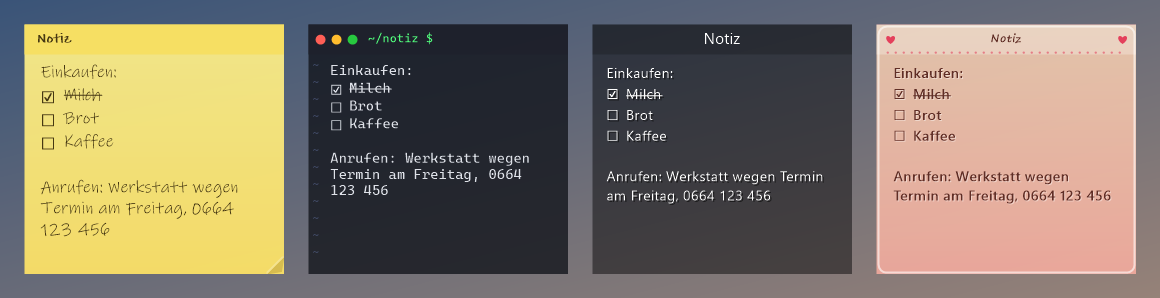
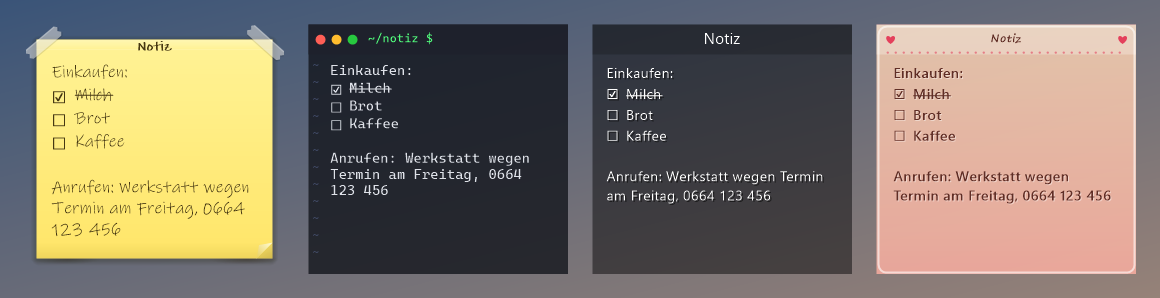
Redesign Post-it as a taped note and fix note editor colors
- Post-it draws on a clear window (no frosted glass, no DWM shadow):
  paper with soft shadow, lifted corners, two strips of tape, curled corner
- Themes can opt out of glass (Glass/WindowShadow); clear background uses
  the transparent-gradient accent with flag 2, without it Windows tints it
- Note editor is a RichTextBox: a TextBox ignores colors in dark mode
  (white on white); paste is always plain text

Changed region(s): [[0.0, 0.0604, 0.2483, 0.9362]]

diff --git a/NoFences/Themes/PostItTheme.cs b/NoFences/Themes/PostItTheme.cs
@@ -3,29 +3,40 @@ using NoFences.Model;
 
 namespace NoFences.Themes
 {
-    /// <summary>Yellow sticky note: paper gradient, adhesive strip, dog-ear corner, handwriting.</summary>
+    /// <summary>
+    /// A sticky note taped onto the desktop: no glass, the window is clear around a sheet of paper
+    /// with its own soft shadow, slightly lifted bottom corners, two strips of translucent tape and
+    /// handwriting.
+    /// </summary>
     public sealed class PostItTheme : FenceTheme
     {
-        private static readonly Color Top = Color.FromArgb(255, 241, 140);
-        private static readonly Color Bottom = Color.FromArgb(255, 228, 102);
-        private static readonly Color Strip = Color.FromArgb(246, 222, 96);
+        private static readonly Color Top = Color.FromArgb(255, 243, 150);
+        private static readonly Color Bottom = Color.FromArgb(255, 229, 104);
         private static readonly Color Ink = Color.FromArgb(70, 56, 18);
+        private static readonly Color TapeColor = Color.FromArgb(120, 255, 253, 246);
 
         private static readonly string[] Handwriting = { "Ink Free", "Segoe Print", "Comic Sans MS" };
+
+        /// <summary>Clear margin around the paper (logical px) for tape and shadow.</summary>
+        private const float Margin = 12;
+        private const float TopMargin = 15;
+        private const float BottomMargin = 16;
 
         public override string Id => "postit";
 
         public override string DisplayName => "Post-it";
 
+        public override bool Glass => false;
+
+        public override bool WindowShadow => false;
+
         public override int CornerPreference => 1;
 
-        public override int MinAlpha => 235;
-
-        public override int ContentInset => 2;
+        public override int ContentInset => 13;
 
         public override Color HintColor => Color.FromArgb(140, Ink);
 
-        public override (Color Back, Color Fore) EditorColors => (Color.FromArgb(255, 247, 178), Ink);
+        public override (Color Back, Color Fore) EditorColors => (Color.FromArgb(255, 240, 138), Ink);
 
         public override Font CreateTitleFont(int titleHeightPx) =>
             CreateFont(Handwriting, Math.Max(6, titleHeightPx * 0.46f), FontStyle.Bold, GraphicsUnit.Pixel);
@@ -34,30 +45,113 @@ namespace NoFences.Themes
 
         public override Font CreateNoteFont(float s) => CreateFont(Handwriting, 17f * s, FontStyle.Regular, GraphicsUnit.Pixel);
 
+        private static RectangleF Paper(Rectangle bounds, float s)
+        {
+            var m = Margin * s;
+            var top = TopMargin * s;
+            return new RectangleF(bounds.X + m, bounds.Y + top, Math.Max(1, bounds.Width - 2 * m), Math.Max(1, bounds.Height - top - BottomMargin * s));
+        }
+
         public override void DrawFrame(Graphics g, Rectangle bounds, int titleHeight, FenceInfo info, float s)
         {
-            var alpha = Alpha(info);
-            using (var paper = new LinearGradientBrush(bounds, Color.FromArgb(alpha, Top), Color.FromArgb(alpha, Bottom), LinearGradientMode.Vertical))
-                g.FillRectangle(paper, bounds);
+            var paper = Paper(bounds, s);
 
-            // Adhesive strip at the top
-            using (var strip = new SolidBrush(Color.FromArgb(alpha, Strip)))
-                g.FillRectangle(strip, bounds.X, bounds.Y, bounds.Width, titleHeight);
+            DrawShadow(g, paper, s);
 
-            // Dog-ear in the bottom right corner
-            var ear = 18 * s;
-            var r = bounds.Right;
-            var b = bounds.Bottom;
-            using (var shadow = new SolidBrush(Color.FromArgb(60, 120, 90, 0)))
-                g.FillPolygon(shadow, new[] { new PointF(r - ear, b), new PointF(r, b - ear), new PointF(r - ear * 0.15f, b - ear * 0.15f) });
-            using (var fold = new LinearGradientBrush(new RectangleF(r - ear, b - ear, ear, ear), Color.FromArgb(255, 250, 200), Color.FromArgb(230, 200, 80), LinearGradientMode.ForwardDiagonal))
-                g.FillPolygon(fold, new[] { new PointF(r - ear, b), new PointF(r - ear, b - ear * 0.15f), new PointF(r - ear * 0.15f, b - ear) , new PointF(r, b - ear) });
+            // The paper itself, slightly darker towards the bottom where it lifts off
+            using (var fill = new LinearGradientBrush(paper, Top, Bottom, LinearGradientMode.Vertical))
+                g.FillRectangle(fill, paper);
+            var lift = new RectangleF(paper.X, paper.Bottom - 16 * s, paper.Width, 16 * s);
+            using (var curl = new LinearGradientBrush(lift, Color.FromArgb(0, 120, 90, 0), Color.FromArgb(30, 120, 90, 0), LinearGradientMode.Vertical))
+                g.FillRectangle(curl, lift);
+            // A faint highlight along the top edge
+            using (var shine = new LinearGradientBrush(new RectangleF(paper.X, paper.Y, paper.Width, 10 * s), Color.FromArgb(70, Color.White), Color.FromArgb(0, Color.White), LinearGradientMode.Vertical))
+                g.FillRectangle(shine, paper.X, paper.Y, paper.Width, 10 * s);
+
+            DrawCurledCorner(g, paper, s);
+
+            // Tape over both top corners
+            DrawTape(g, new PointF(paper.Left + 7 * s, paper.Top + 3 * s), -40, s, info, 0);
+            DrawTape(g, new PointF(paper.Right - 7 * s, paper.Top + 3 * s), 40, s, info, 1);
+        }
+
+        /// <summary>Soft layered shadow, stronger under the lifted bottom corners.</summary>
+        private static void DrawShadow(Graphics g, RectangleF paper, float s)
+        {
+            for (var i = 6; i >= 1; i--)
+            {
+                var r = RectangleF.Inflate(paper, i * 0.9f * s, i * 0.9f * s);
+                r.Offset(0, 1.5f * s);
+                FillRounded(g, Color.FromArgb(11, 30, 22, 0), r, (2 + i) * s);
+            }
+
+            var w = paper.Width * 0.3f;
+            // Centered a bit inside the corners, so the shadow only peeks out below the paper.
+            foreach (var x in new[] { paper.Left + w * 0.4f, paper.Right - w * 0.4f })
+            {
+                var shadowRect = new RectangleF(x - w / 2, paper.Bottom - 4 * s, w, 10 * s);
+                using var path = new GraphicsPath();
+                path.AddEllipse(shadowRect);
+                using var brush = new PathGradientBrush(path)
+                {
+                    CenterColor = Color.FromArgb(75, 30, 22, 0),
+                    SurroundColors = new[] { Color.FromArgb(0, 40, 30, 0) }
+                };
+                g.FillPath(brush, path);
+            }
+        }
+
+        private static void DrawCurledCorner(Graphics g, RectangleF paper, float s)
+        {
+            var c = 16 * s;
+            var r = paper.Right;
+            var b = paper.Bottom;
+            // Cut the corner away, then draw the folded-up flap
+            using (var cut = new LinearGradientBrush(new RectangleF(r - c, b - c, c, c), Color.FromArgb(0, 0, 0, 0), Color.FromArgb(40, 60, 45, 0), LinearGradientMode.ForwardDiagonal))
+                g.FillPolygon(cut, new[] { new PointF(r - c, b), new PointF(r, b - c), new PointF(r, b) });
+            using var flap = new LinearGradientBrush(new RectangleF(r - c, b - c, c, c), Color.FromArgb(255, 252, 214), Color.FromArgb(232, 206, 92), LinearGradientMode.BackwardDiagonal);
+            g.FillPolygon(flap, new[] { new PointF(r - c, b), new PointF(r, b - c), new PointF(r - c * 0.85f, b - c * 0.85f) });
+        }
+
+        /// <summary>A strip of translucent tape with torn, zigzag ends.</summary>
+        private static void DrawTape(Graphics g, PointF center, float angle, float s, FenceInfo info, int salt)
+        {
+            var rng = new Random(info.Id.GetHashCode() + salt);
+            var w = (36 + rng.Next(6)) * s;
+            var h = 12 * s;
+            var state = g.Save();
+            g.TranslateTransform(center.X, center.Y);
+            g.RotateTransform(angle + (float)(rng.NextDouble() * 6 - 3));
+
+            var teeth = 4;
+            var points = new List<PointF>();
+            points.Add(new PointF(-w / 2, -h / 2));
+            points.Add(new PointF(w / 2, -h / 2));
+            for (var i = 1; i <= teeth; i++)
+                points.Add(new PointF(w / 2 + (i % 2 == 1 ? 2.5f * s : 0), -h / 2 + h * i / teeth));
+            points.Add(new PointF(-w / 2, h / 2));
+            for (var i = teeth - 1; i >= 1; i--)
+                points.Add(new PointF(-w / 2 - (i % 2 == 1 ? 2.5f * s : 0), -h / 2 + h * i / teeth));
+
+            using (var shadow = new SolidBrush(Color.FromArgb(28, 0, 0, 0)))
+            {
+                var shadowPoints = points.Select(p => new PointF(p.X + 0.8f * s, p.Y + 1.2f * s)).ToArray();
+                g.FillPolygon(shadow, shadowPoints);
+            }
+            using (var tape = new SolidBrush(TapeColor))
+                g.FillPolygon(tape, points.ToArray());
+            using (var edge = new Pen(Color.FromArgb(60, Color.White), 1))
+                g.DrawLine(edge, -w / 2, -h / 2 + 1, w / 2, -h / 2 + 1);
+
+            g.Restore(state);
         }
 
         public override void DrawTitle(Graphics g, Rectangle titleRect, string text, Font font, float s)
         {
-            using var format = TitleFormat();
-            DrawPlainString(g, text, font, Ink, new RectangleF(titleRect.X + 10 * s, titleRect.Y, titleRect.Width - 20 * s, titleRect.Height), format);
+            var m = Margin * s;
+            using var format = TitleFormat(StringAlignment.Center);
+            var rect = new RectangleF(titleRect.X + m + 30 * s, titleRect.Y + m, titleRect.Width - 2 * m - 60 * s, titleRect.Height - m + 4 * s);
+            DrawPlainString(g, text, font, Ink, rect, format);
         }
 
         public override void DrawItemBackground(Graphics g, Rectangle rect, bool hover, bool selected, float s)
@@ -70,8 +164,14 @@ namespace NoFences.Themes
         public override void DrawLabel(Graphics g, string text, RectangleF rect, Font font, StringFormat format, float s) =>
             DrawPlainString(g, text, font, Ink, rect, format);
 
-        public override void DrawScrollbar(Graphics g, Rectangle track, Rectangle thumb, float s) =>
+        // Keep the scrollbar on the paper, not in the clear margin.
+        public override void DrawScrollbar(Graphics g, Rectangle track, Rectangle thumb, float s)
+        {
+            var shift = (int)(Margin * s);
+            track.Offset(-shift, 0);
+            thumb.Offset(-shift, 0);
             DrawPillThumb(g, track, thumb, Color.FromArgb(140, Ink), s);
+        }
 
         public override void DrawInsertMarker(Graphics g, int x, int top, int height, float s) =>
             DrawBarMarker(g, Ink, x, top, height, 2 * s);

diff --git a/NoFences/FenceWindow.Note.cs b/NoFences/FenceWindow.Note.cs
@@ -14,7 +14,7 @@ namespace NoFences
         private Font? noteFont;
         private Font? noteFontDone;
         private Font? checkFont;
-        private TextBox? editor;
+        private RichTextBox? editor;
         private readonly List<(RectangleF box, int line)> checkboxes = new(); // content coordinates
         private readonly StringFormat noteFormat = new() { Alignment = StringAlignment.Near, Trimming = StringTrimming.None };
 
@@ -36,7 +36,7 @@ namespace NoFences
             if (editor != null)
             {
                 editor.Font = noteFont;
-                (editor.BackColor, editor.ForeColor) = theme.EditorColors;
+                ApplyEditorColors(editor);
             }
         }
 
@@ -122,27 +122,39 @@ namespace NoFences
             if (collapsed)
                 Expand();
 
+            // RichTextBox instead of TextBox: in Windows dark mode a TextBox ignores our colors
+            // (white text on a white box), the rich edit control keeps them.
             var (back, fore) = theme.EditorColors;
-            editor = new TextBox
+            editor = new RichTextBox
             {
                 Multiline = true,
-                AcceptsReturn = true,
                 AcceptsTab = true,
                 WordWrap = true,
-                ScrollBars = ScrollBars.Vertical,
+                DetectUrls = false,
+                ScrollBars = RichTextBoxScrollBars.Vertical,
                 BorderStyle = BorderStyle.None,
                 Font = noteFont,
                 BackColor = back,
                 ForeColor = fore,
                 Bounds = NoteArea,
-                Text = Info.NoteText.Replace("\n", "\r\n")
+                Text = Info.NoteText
             };
+            ApplyEditorColors(editor);
+            editor.HandleCreated += (_, _) => ApplyEditorColors(editor);
             editor.KeyDown += (_, e) =>
             {
                 if (e.KeyCode == Keys.Escape)
                 {
                     e.SuppressKeyPress = true;
                     EndEditNote();
+                }
+                else if (e.Control && e.KeyCode == Keys.V || e.Shift && e.KeyCode == Keys.Insert)
+                {
+                    // Paste as plain text in the note's own font and color.
+                    e.SuppressKeyPress = true;
+                    if (Clipboard.ContainsText())
+                        editor!.SelectedText = Clipboard.GetText().Replace("\r\n", "\n");
+                    ApplyEditorColors(editor!);
                 }
             };
             editor.LostFocus += (_, _) => BeginInvoke(EndEditNote);
@@ -154,6 +166,22 @@ namespace NoFences
             editor.Focus();
             editor.SelectionStart = editor.TextLength;
             Invalidate();
+        }
+
+        /// <summary>Forces font and colors on the whole text and on what will be typed next.</summary>
+        private void ApplyEditorColors(RichTextBox box)
+        {
+            var (back, fore) = theme.EditorColors;
+            box.BackColor = back;
+            box.ForeColor = fore;
+            var (start, length) = (box.SelectionStart, box.SelectionLength);
+            box.SelectAll();
+            box.SelectionColor = fore;
+            box.SelectionBackColor = back;
+            if (noteFont != null)
+                box.SelectionFont = noteFont;
+            box.Select(start, length);
+            box.SelectionColor = fore;
         }
 
         private void EndEditNote()

diff --git a/NoFences/Win32/Native.cs b/NoFences/Win32/Native.cs
@@ -135,9 +135,25 @@ namespace NoFences.Win32
         private const int DWMWA_NCRENDERING_POLICY = 2;
         private const int DWMWA_WINDOW_CORNER_PREFERENCE = 33;
 
-        public static void EnableBlur(IntPtr hwnd)
+        private const int ACCENT_ENABLE_TRANSPARENTGRADIENT = 2;
+
+        public static void EnableBlur(IntPtr hwnd) => SetAccent(hwnd, ACCENT_ENABLE_BLURBEHIND);
+
+        /// <summary>Per-pixel transparency without the frosted-glass blur (fully clear where nothing is painted).</summary>
+        /// <remarks>Flag 2 makes DWM use our (fully transparent) gradient color; without it Windows fills in a tint.</remarks>
+        public static void EnableClearBackground(IntPtr hwnd) => SetAccent(hwnd, ACCENT_ENABLE_TRANSPARENTGRADIENT, flags: 2);
+
+        /// <summary>Turns the DWM drop shadow around the window on or off.</summary>
+        public static void SetWindowShadow(IntPtr hwnd, bool enabled)
         {
-            var accent = new AccentPolicy { AccentState = ACCENT_ENABLE_BLURBEHIND };
+            var policy = enabled ? 2 : 1; // DWMNCRP_ENABLED : DWMNCRP_DISABLED
+            DwmSetWindowAttribute(hwnd, DWMWA_NCRENDERING_POLICY, ref policy, sizeof(int));
+        }
+
+        private static void SetAccent(IntPtr hwnd, int state, int flags = 0)
+        {
+            // GradientColor 0 = fully transparent, so only what we paint is visible.
+            var accent = new AccentPolicy { AccentState = state, AccentFlags = flags, GradientColor = 0 };
             var size = Marshal.SizeOf(accent);
             var ptr = Marshal.AllocHGlobal(size);
             try

diff --git a/NoFences/Themes/FenceTheme.cs b/NoFences/Themes/FenceTheme.cs
@@ -45,6 +45,12 @@ namespace NoFences.Themes
 
         public abstract void DrawInsertMarker(Graphics g, int x, int top, int height, float s);
 
+        /// <summary>Frosted-glass blur behind the fence. Off = clear, so the theme can paint free shapes.</summary>
+        public virtual bool Glass => true;
+
+        /// <summary>Rectangular DWM drop shadow around the window (off when the theme draws its own).</summary>
+        public virtual bool WindowShadow => true;
+
         /// <summary>Color of the "drop files here" hint in empty fences (dark for light styles).</summary>
         public virtual Color HintColor => Color.FromArgb(150, Color.White);
 

diff --git a/NoFences/FenceWindow.cs b/NoFences/FenceWindow.cs
@@ -121,7 +121,14 @@ namespace NoFences
             ApplyNoteSettings();
 
             if (IsHandleCreated)
+            {
                 Native.SetCornerPreference(Handle, theme.CornerPreference);
+                if (theme.Glass)
+                    Native.EnableBlur(Handle);
+                else
+                    Native.EnableClearBackground(Handle);
+                Native.SetWindowShadow(Handle, theme.WindowShadow);
+            }
 
             SetupWatcher();
             if (collapsed)

diff --git a/CHANGELOG.de.md b/CHANGELOG.de.md
@@ -8,7 +8,9 @@ Alle wichtigen Änderungen an diesem Fork. English version: [CHANGELOG.md](CHANG
 - **Notizen (Post-its)**: neuer Fence-Typ „Notiz“ (Tray- oder Fence-Menü → „Neue Notiz“). Doppelklick zum Schreiben,
   Esc oder ein Klick daneben speichert. Zeilen mit `[ ]` am Anfang werden zu Kästchen, die man per Klick abhakt.
   Auf eine Notiz gezogener Text wird angehängt.
-- **Post-it-Style**: gelbes Papier, Klebestreifen, Eselsohr und Handschrift. Neue Notizen bekommen ihn automatisch.
+- **Post-it-Style**: ein gelber Zettel, aufgeklebt auf den Desktop: durchsichtiger Hintergrund um das Papier,
+  zwei halbdurchsichtige Klebestreifen, weicher Schatten mit leicht abstehenden Ecken, Eselsohr und Handschrift.
+  Neue Notizen bekommen ihn automatisch. Styles können jetzt auf das Milchglas verzichten und freie Formen zeichnen.
 - **Immer im Vordergrund** pro Fence (Fence-Menü), z. B. für eine Notiz neben einem Spiel im randlosen Fenstermodus.
 
 ### Geändert

diff --git a/CHANGELOG.md b/CHANGELOG.md
@@ -9,7 +9,9 @@ versions follow [Semantic Versioning](https://semver.org/). German version: [CHA
 - **Sticky notes**: a new fence type "Note" (tray or fence menu → "New note"). Double-click to write, Esc or a
   click outside saves. Lines starting with `[ ]` become checkboxes you can tick with a click.
   Text dragged onto a note is appended.
-- **Post-it style**: yellow paper, adhesive strip, dog-ear and handwriting. New notes use it by default.
+- **Post-it style**: a yellow note taped onto the desktop: clear background around the paper, two strips of
+  translucent tape, soft shadow with lifted corners, curled corner and handwriting. New notes use it by default.
+  Styles can now opt out of the frosted glass and draw free shapes.
 - **Always on top** per fence (fence menu), e.g. for a note next to a game in borderless window mode.
 
 ### Changed
